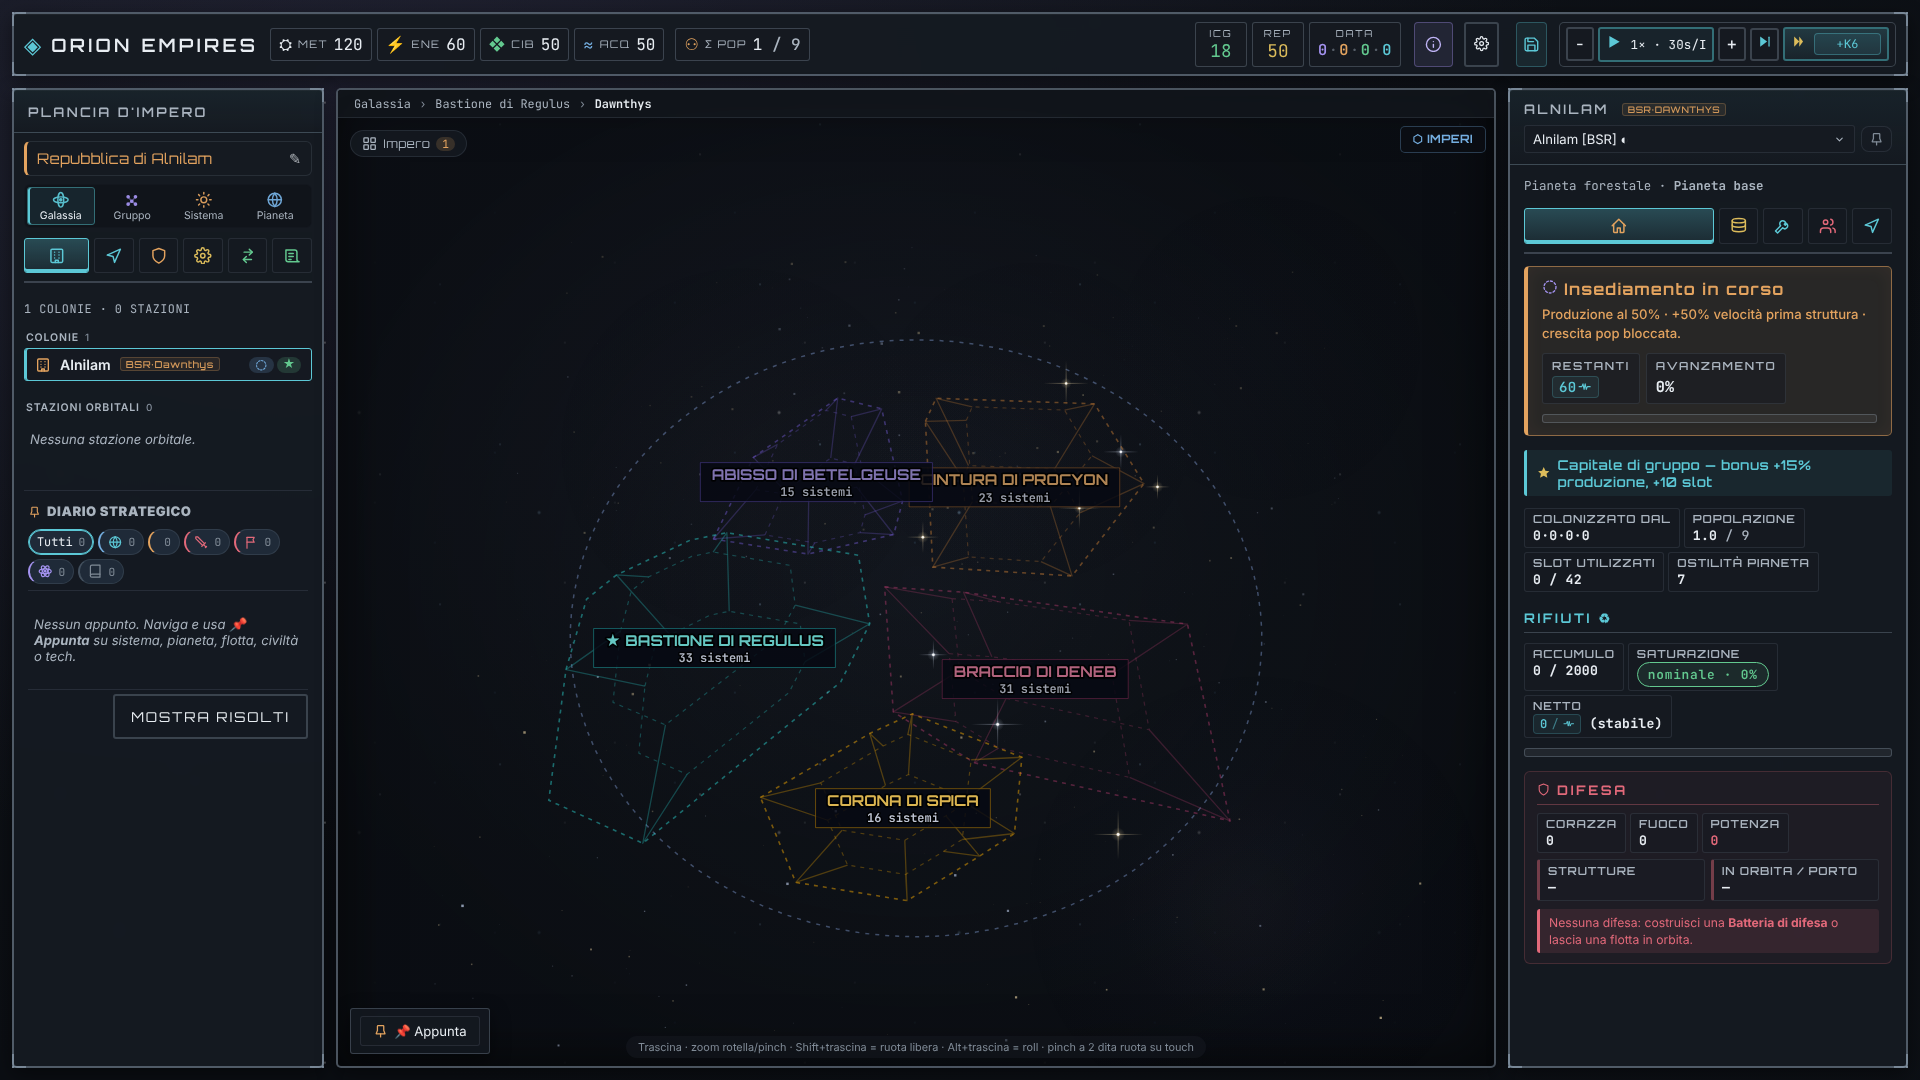
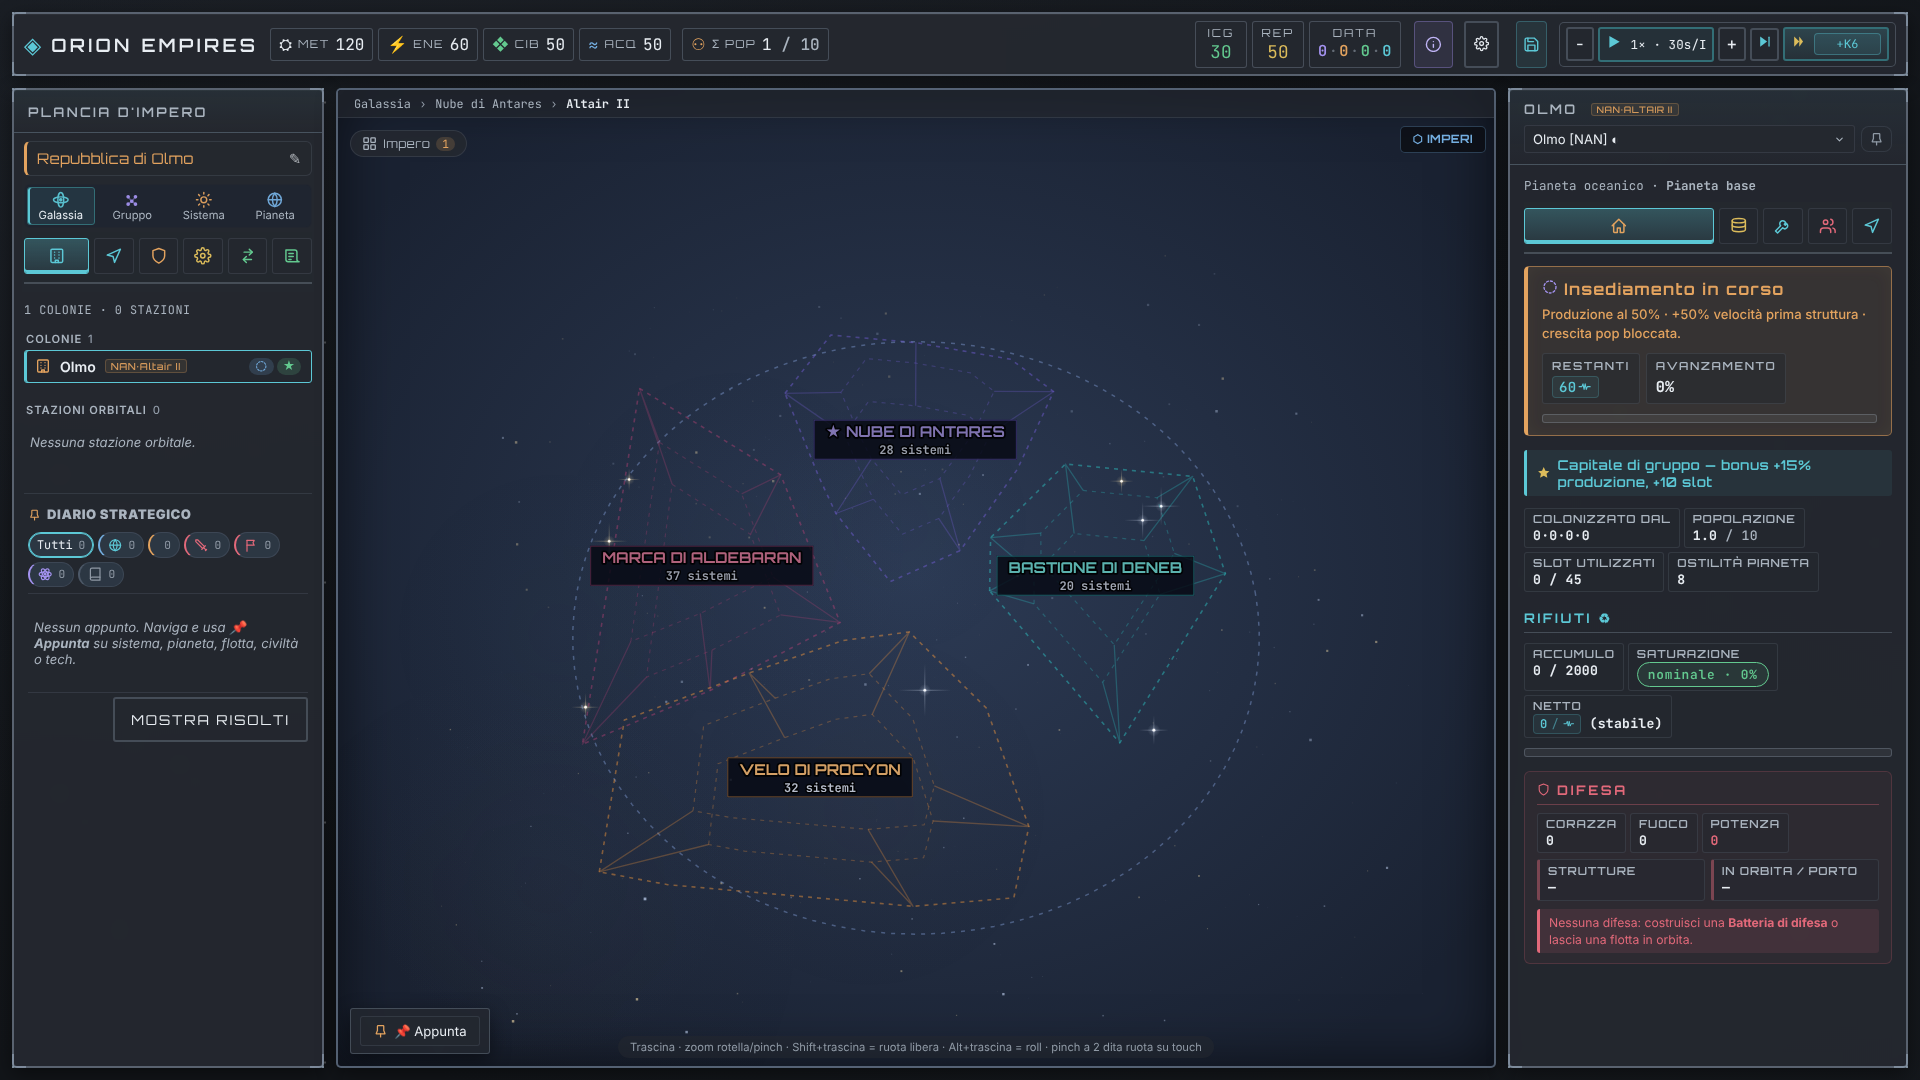
Plancia: barre laterali grigio scuro, centro vista blu-ardesia più chiaro (feedback utente)
- --c-surface-rgb 21 26 33 → 36 40 47 (#24282f), surface2 #2c3139
- nuovo --c-view-rgb 44 58 84 (centro scena) → --c-bg-deep-rgb 26 34 50 (bordo)
- testo tenue #8f99a5; fondi pagina più scuri dei pannelli
- livelli di luminosità ricalibrati; UI_GUIDE e audit aggiornati; screenshot

Claude-Session: https://claude.ai/code/session_01BAVANYNYNkLZVGQpeYwUch

diff --git a/css/parts/tokens-base.css b/css/parts/tokens-base.css
@@ -13,16 +13,19 @@
      Grafite neutra quasi monocroma: il colore compare solo per stati e
      concetti (UI_GUIDE §1). Nessun glow. Ogni tinta ha anche la forma
      `-rgb` per le trasparenze: rgb(var(--c-accent-rgb) / .2). */
-  --c-void:        #0b0e13;   /* fondo pagina                          */
-  --c-space:       #10141a;   /* fondo 2                               */
-  --c-deep:        #151a21;   /* = pannello                            */
+  --c-void:        #121519;   /* fondo pagina (più scuro dei pannelli)  */
+  --c-space:       #171b21;   /* fondo 2                               */
+  --c-deep:        #24282f;   /* = pannello                            */
 
   /* Superfici: UN SOLO knob RGB; l'alpha vive per-uso. Regolabili dal
      giocatore (Preferenze → applySurfaceLevel, 4 livelli di grafite). */
-  --c-surface-rgb:        21 26 33;    /* pannello #151a21 */
-  --c-surface-violet-rgb: 27 25 38;
-  --c-bg-deep-rgb:        11 14 19;    /* viewport / dashboard */
-  --c-surface2:    #1d242d;            /* card dentro un pannello */
+  /* Feedback utente 2026-11-27: barre laterali grigio scuro (non nero),
+     centro delle viste più chiaro con sfumatura blu (non "scuro cosmico"). */
+  --c-surface-rgb:        36 40 47;    /* pannello #24282f — grigio scuro neutro */
+  --c-surface-violet-rgb: 40 38 52;
+  --c-bg-deep-rgb:        26 34 50;    /* fondo blu-ardesia: bordi viewport, dashboard, riquadri vista */
+  --c-view-rgb:           44 58 84;    /* centro della scena (mappa, sistema, pianeta) */
+  --c-surface2:    #2c3139;            /* card dentro un pannello */
 
   --c-panel:       rgb(var(--c-surface-rgb) / 0.96);
   --c-panel-solid: rgb(var(--c-surface-rgb));
@@ -45,7 +48,7 @@
 
   --c-text:        #e8edf2;
   --c-text-soft:   #aab4bf;
-  --c-text-faint:  #808b97;
+  --c-text-faint:  #8f99a5;   /* alzato: leggibile sul grigio dei pannelli */
   /* Alias storici (usati nel CSS/JS esistente). */
   --c-text-dim:    var(--c-text-faint);
   --c-muted:       var(--c-text-faint);

diff --git a/js/main.js b/js/main.js
@@ -11904,11 +11904,12 @@ ORION.prefs = Object.assign({}, DEFAULT_PREFS);
    preferenza di dispositivo, persistita in localStorage['orion.prefs'],
    NON nel save. */
 const SURFACE_LEVELS = {
-  /* Palette Plancia (Revisione 2026, Fase 3): grafite neutra. */
-  'scuro':       { label: 'Scuro',       surface: '17 21 27', violet: '22 20 30', deep: '9 11 15' },
-  'medio-scuro': { label: 'Medio-scuro', surface: '21 26 33', violet: '27 25 38', deep: '11 14 19' },
-  'medio':       { label: 'Medio',       surface: '29 36 45', violet: '35 32 48', deep: '16 20 26' },
-  'chiaro':      { label: 'Chiaro',      surface: '38 46 57', violet: '44 40 60', deep: '22 27 34' }
+  /* Palette Plancia (Revisione 2026): pannelli grigio scuro, fondo vista
+     blu-ardesia. Ogni livello sposta insieme pannelli e fondo. */
+  'scuro':       { label: 'Scuro',       surface: '28 32 38', violet: '32 30 42', deep: '19 25 37' },
+  'medio-scuro': { label: 'Medio-scuro', surface: '36 40 47', violet: '40 38 52', deep: '26 34 50' },
+  'medio':       { label: 'Medio',       surface: '46 51 59', violet: '50 47 64', deep: '33 43 63' },
+  'chiaro':      { label: 'Chiaro',      surface: '58 64 73', violet: '62 58 78', deep: '41 53 77' }
 };
 const SURFACE_ORDER = ['scuro', 'medio-scuro', 'medio', 'chiaro'];
 

diff --git a/css/parts/shell.css b/css/parts/shell.css
@@ -283,7 +283,7 @@
   border: 2px solid var(--c-border-strong);
   border-radius: var(--radius);
   background:
-    radial-gradient(ellipse at center, rgb(var(--c-surface-rgb) / 0.55) 0%, rgb(var(--c-bg-deep-rgb) / 0.95) 78%);
+    radial-gradient(ellipse at center, rgb(var(--c-view-rgb)) 0%, rgb(var(--c-bg-deep-rgb)) 85%);
   box-shadow: var(--shadow-panel), inset 0 0 60px rgba(0, 0, 0, 0.6), inset 0 1px 0 var(--c-panel-hilite);
   overflow: hidden;
   min-height: 0;

diff --git a/UI_GUIDE.md b/UI_GUIDE.md
@@ -35,21 +35,22 @@ compare **solo** per stati e concetti. **Nessun glow.** Token in `css/parts/toke
 | **Buono** | `--c-good` | `#63c98f` | ok, surplus, mercato, cibo |
 | **Allerta** | `--c-warn` | `#dcbc5b` | warn, energia |
 | **Critico** | `--c-bad` | `#e2697a` | crit, militare, civiltà ostile |
-| **Testo** | `--c-text` / `--c-text-soft` / `--c-text-faint` | `#e8edf2` / `#aab4bf` / `#808b97` | primario / secondario / tenue |
+| **Testo** | `--c-text` / `--c-text-soft` / `--c-text-faint` | `#e8edf2` / `#aab4bf` / `#8f99a5` | primario / secondario / tenue |
 | **Linee** | `--c-line-rgb` → `--c-border` / `-soft` / `-strong` | `170 190 210` a .26 / .12 / .40 | bordi e separatori |
 
 Varianti scure/chiare di una tinta: `color-mix(in srgb, var(--c-accent) 55%, #000)` / `… 70%, #fff)`.
-Contrasto: tutte le tinte ≥ 5:1 sul pannello.
+Contrasto: testo tenue `#8f99a5` ≥ 4.5:1 sul pannello grigio.
 
 ### Sfondi / superfici
 
 | Ruolo | Token | Valore | Uso |
 |---|---|---|---|
-| **Fondo pagina** | `--c-void` / `--c-space` | `#0b0e13` / `#10141a` | body, starfield |
-| **Pannello** | `--c-surface-rgb` | `21 26 33` (`#151a21`) | pannelli, card, sheet — `rgb(var(--c-surface-rgb) / α)` |
-| **Card nel pannello** | `--c-surface2` | `#1d242d` | blocchi annidati |
-| **Superficie viola** | `--c-surface-violet-rgb` | `27 25 38` | blocchi a tinta viola |
-| **Fondo profondo** | `--c-bg-deep-rgb` | `11 14 19` | viewport, Dashboard Impero |
+| **Fondo pagina** | `--c-void` / `--c-space` | `#121519` / `#171b21` | body, starfield (più scuro dei pannelli) |
+| **Pannello** | `--c-surface-rgb` | `36 40 47` (`#24282f`) | barre laterali, card, sheet — grigio scuro neutro, `rgb(var(--c-surface-rgb) / α)` |
+| **Card nel pannello** | `--c-surface2` | `#2c3139` | blocchi annidati |
+| **Superficie viola** | `--c-surface-violet-rgb` | `40 38 52` | blocchi a tinta viola |
+| **Centro della scena** | `--c-view-rgb` | `44 58 84` | centro del riquadro mappa/sistema/pianeta (blu-ardesia) |
+| **Fondo vista** | `--c-bg-deep-rgb` | `26 34 50` | bordi del riquadro centrale, dashboard, riquadri di vista |
 
 > Le **Preferenze** (luminosità) offrono 4 livelli di grafite (`SURFACE_LEVELS` in `main.js`) che sovrascrivono
 > i tre knob RGB a runtime. Preferenza di dispositivo, **mai nel save**.
@@ -346,3 +347,4 @@ Modifiche a UI_GUIDE.md vanno discusse con l'utente PRIMA di applicarle (come pe
 - **2026-06-07** — Luminosità superfici regolabile (decisione #67). Su richiesta utente, default riportato verso lo **scuro** (livello *medio-scuro*: `--c-surface-rgb` 41,55,98 → **33,44,82**; bg-deep 28,37,76 → **21,28,60**) e, grazie al knob unico, **esposta nelle Preferenze** (ingranaggio in HUD, già presente): 4 livelli *Scuro · Medio-scuro · Medio · Chiaro* applicati a runtime (`applySurfaceLevel`/`SURFACE_LEVELS` in `main.js`), live + persistiti in `localStorage['orion.prefs']` (mai nel save). Stili `.prefs-row--levels`/`.prefs-levels`/`.prefs-level`.
 - **2026-06-12** — Navigazione a zoom Galassia↔Sistema↔Pianeta (decisione #80). Nuovo pattern di transizione: `.is-zoom-entering` + `@keyframes zoom-fade-in` (200ms ease-out, **rispetta `prefers-reduced-motion`**) — mini-dissolvenza dell'holder che compare cambiando livello, applicata via `zoomFadeIn(holder)` in `main.js` su tutte le transizioni (scroll, bottoni, doppio-click). Durata coerente con `--transition` (§7). Nessun nuovo token, nessuna modifica agli standard esistenti. La navigazione sx (nav launcher) resta la via touch su mobile/tablet: lo scroll-in/out è **additivo**, non sostituisce i controlli esistenti.
 - **2026-11-27** — **Revisione 2026, Fase 3 — palette Plancia** (scelta utente tra 5 proposte). Grafite neutra, colore solo per stati/concetti, **nessun glow**, radius 5/3. ~1.260 colori scritti a mano nel CSS sostituiti dai token (con trasparenza e varianti scure/chiare via `color-mix`); token `-rgb` per ogni tinta; `--c-info` nuovo; alias storici (`--c-text-dim`, `--c-amber`, `--c-muted`, `--font-mono`, `--radius-md`…) definiti. Floor 0.70rem applicato (45 dichiarazioni). Marcatori d'angolo e titoli pannello neutri. `style.css` diviso in `css/parts/*.css` contigui (ordine e cascata invariati). Card Dashboard Impero: etichetta sopra il valore (niente più sovrapposizioni). Layout telefono rimosso (Fase 2).
+- **2026-11-27** — Ritocco Plancia (feedback utente): barre laterali **grigio scuro** (`#24282f`, non quasi-nero) per leggibilità; centro delle viste **blu-ardesia più chiaro** (`--c-view-rgb` 44 58 84 → bordo `--c-bg-deep-rgb` 26 34 50) al posto dello "scuro cosmico"; testo tenue alzato a `#8f99a5`; 4 livelli di luminosità ricalibrati di conseguenza.

diff --git a/docs/AUDIT_2026.md b/docs/AUDIT_2026.md
@@ -221,4 +221,5 @@ viaggio: 0% a 1-2 salti, 0,4% a 3, 1,6% a 4, 5,6% a 6.
    Valori di partenza (Fase 3): fondo `#0b0e13` · fondo 2 `#10141a` · pannello `#151a21` · pannello 2 `#1d242d` ·
    bordo `rgba(170,190,210,.26)` / morbido `.12` · testo `#e8edf2` / 2° `#aab4bf` / tenue `#808b97` ·
    accento/galassia `#5cc8d6` · sistema/colonia `#e3a35f` · gruppo/ricerca `#a493f0` · pianeta/info `#74aee0` ·
-   buono `#63c98f` · allerta `#dcbc5b` · critico `#e2697a` · raggio 5px. Contrasti tutti ≥ 5 sul pannello.
+   buono `#63c98f` · allerta `#dcbc5b` · critico `#e2697a` · raggio 5px.
+   Ritocco utente (2026-11-27): pannelli grigio scuro `#24282f`, centro vista blu-ardesia `44 58 84 → 26 34 50`, testo tenue `#8f99a5`.
